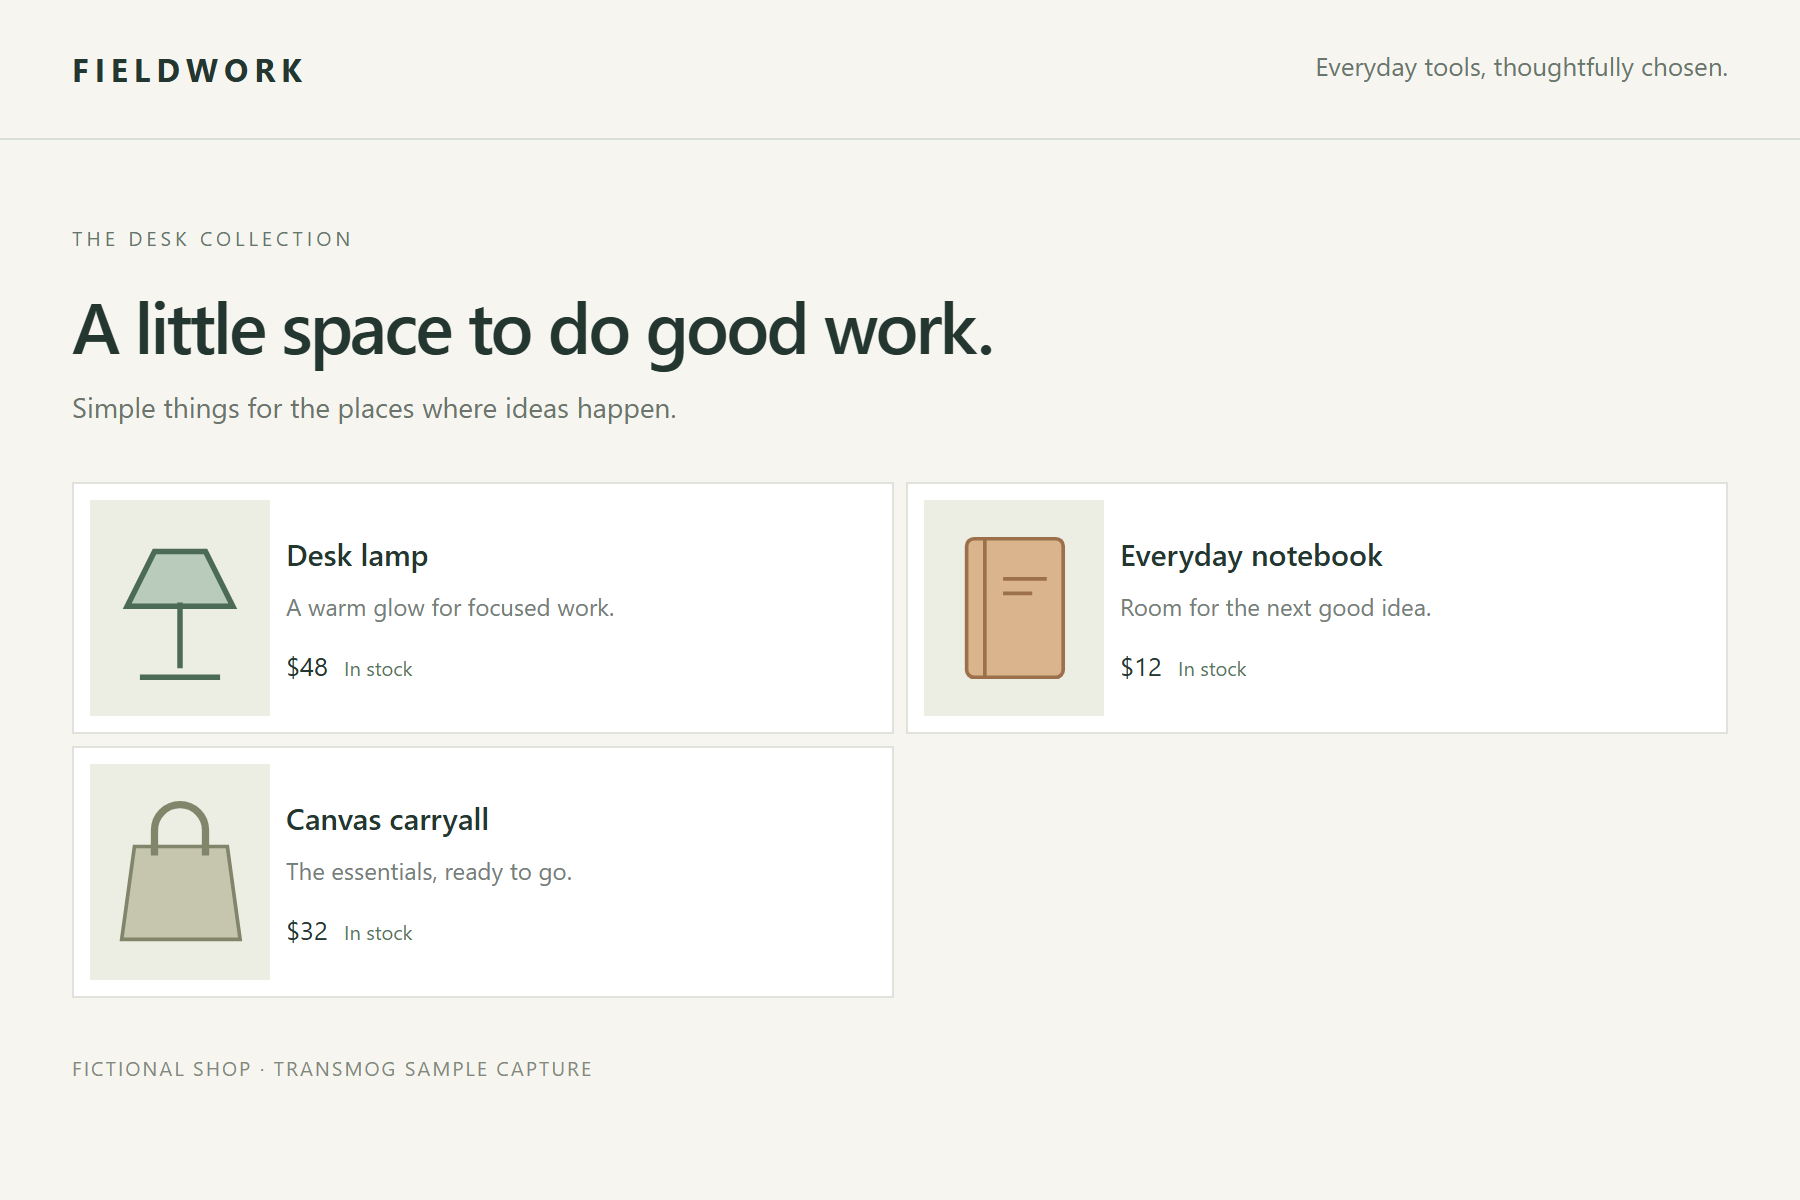
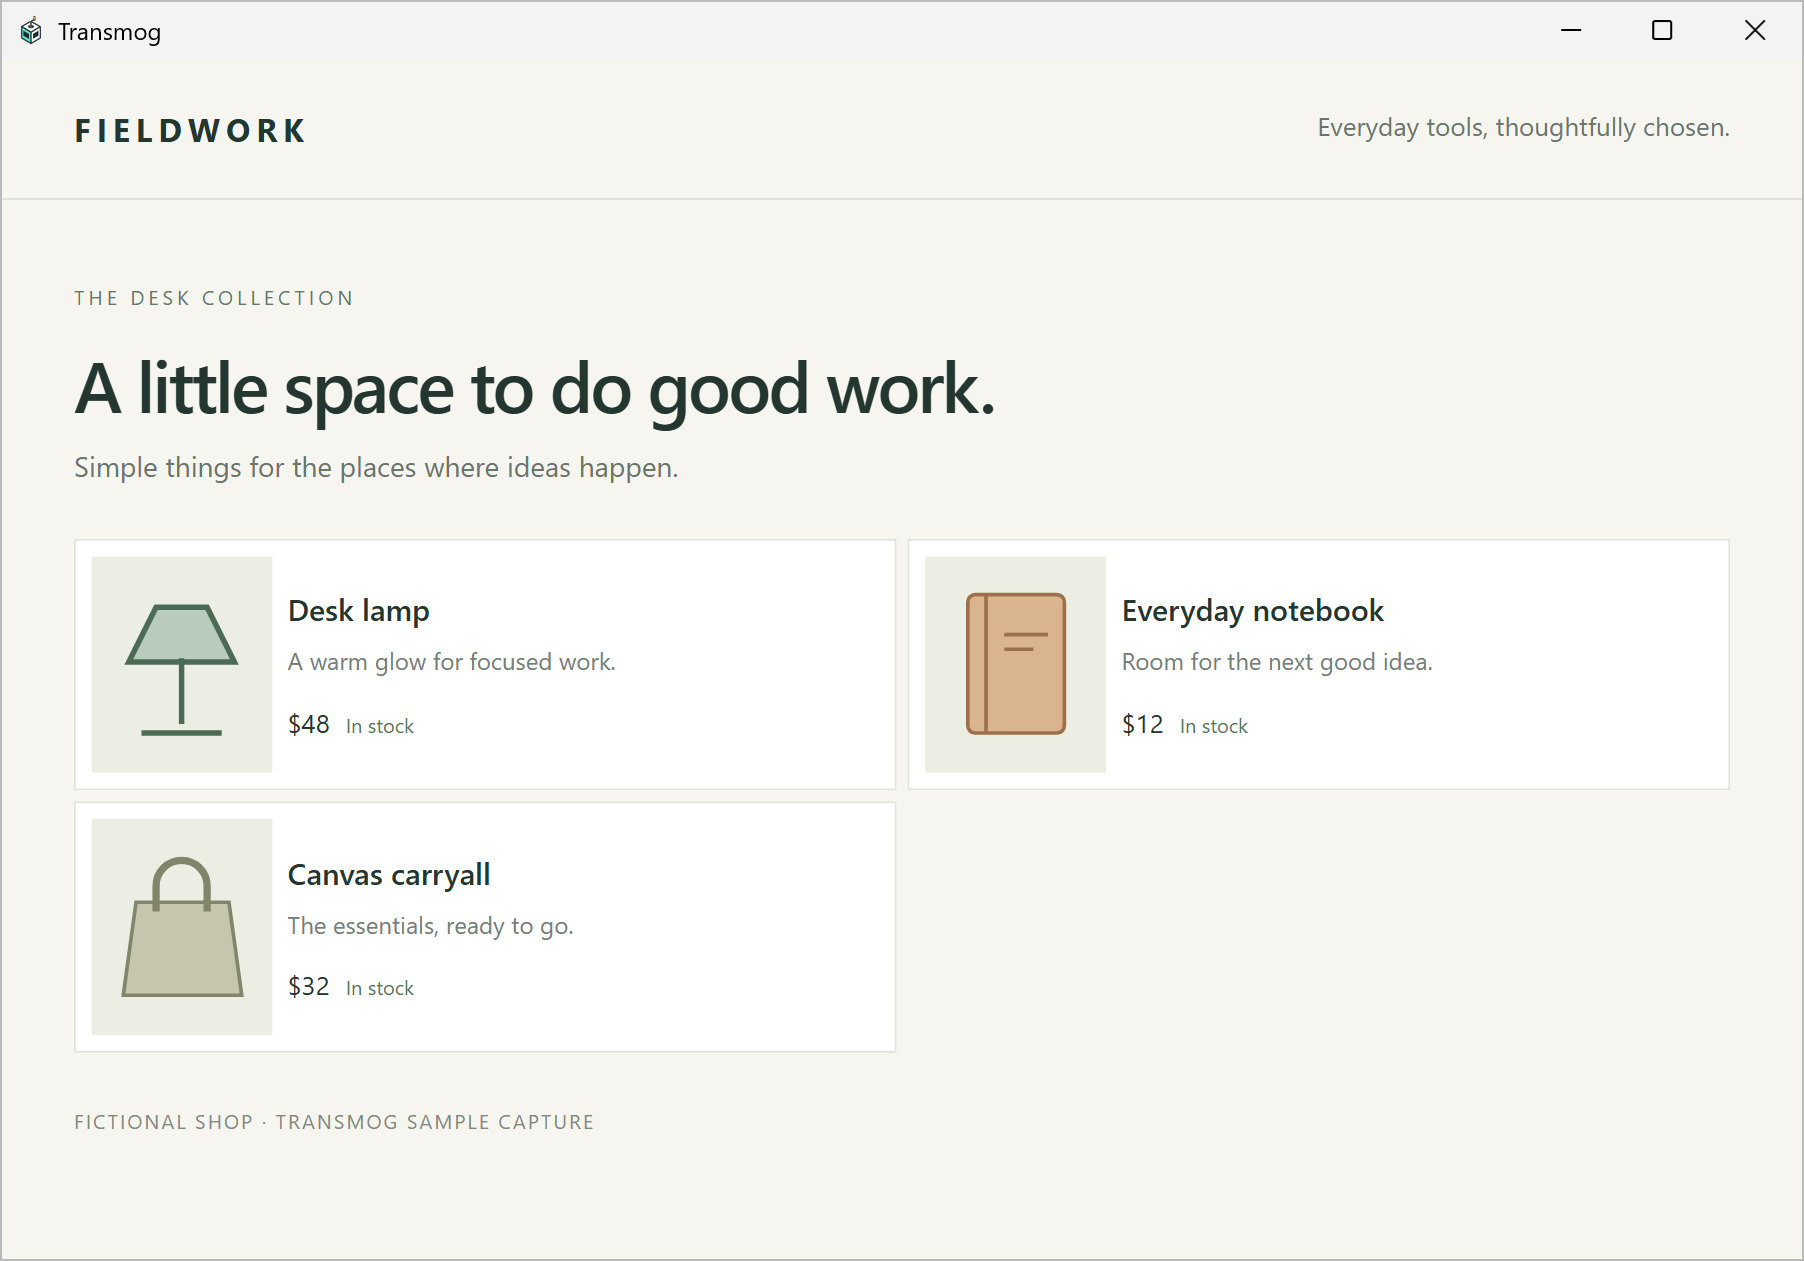
Add Windows frames to generated screenshots

diff --git a/index.html b/index.html
@@ -42,7 +42,7 @@
       <figure class="hero-figure" id="screenshots">
         <div class="figure-bar"><span><span class="mini-mark" aria-hidden="true">↔</span> A closer look at every exchange</span><span class="figure-tag">TRANSMOG / TRAFFIC</span></div>
         <a class="screenshot-link" href="assets/screenshots/traffic.png" data-lightbox="Traffic inspector" aria-label="Enlarge the Traffic inspector screenshot">
-          <img src="assets/screenshots/traffic.png" width="2880" height="1800" fetchpriority="high" alt="Transmog showing captured requests, status codes and durations, with request headers and a JSON response side by side.">
+          <img src="assets/screenshots/traffic.png" width="2884" height="1861" fetchpriority="high" alt="Transmog showing captured requests, status codes and durations, with request headers and a JSON response side by side.">
           <span class="zoom-hint" aria-hidden="true">↗ Expand screenshot</span>
         </a>
         <figcaption><span>Requests, responses, and connection details. Together.</span><span class="sample-note">Actual app UI · Sample traffic</span></figcaption>
@@ -55,11 +55,11 @@
         <div class="story-copy"><p>Modify response headers or content to test how your app behaves. Try saved responses in a captured-page preview, compare the result with the original, and choose when to apply changes to live traffic.</p><p>Keep related changes in a response set, save named versions, and retain a demo—even after clearing Traffic or restarting. Previews use available captured resources and saved responses; missing resources stay blocked.</p></div>
       </div>
       <div class="preview-pair">
-        <figure class="preview-shot"><div class="shot-label"><span>Original response</span><span class="figure-tag">CAPTURED PAGE</span></div><a class="screenshot-link" href="assets/screenshots/preview-original.png" data-lightbox="Original captured-page preview" aria-label="Enlarge the original captured-page preview"><img src="assets/screenshots/preview-original.png" width="1800" height="1200" loading="lazy" alt="Captured sample shop with a cramped two-column product layout."><span class="zoom-hint" aria-hidden="true">↗ Expand screenshot</span></a></figure>
-        <figure class="preview-shot modified"><div class="shot-label"><span>Modified response</span><span class="figure-tag">SAME CAPTURE</span></div><a class="screenshot-link" href="assets/screenshots/preview-css-change.png" data-lightbox="Modified captured-page preview" aria-label="Enlarge the modified captured-page preview"><img src="assets/screenshots/preview-css-change.png" width="1800" height="1200" loading="lazy" alt="The same captured shop with three columns and more spacing after editing its stylesheet response."><span class="zoom-hint" aria-hidden="true">↗ Expand screenshot</span></a></figure>
+        <figure class="preview-shot"><div class="shot-label"><span>Original response</span><span class="figure-tag">CAPTURED PAGE</span></div><a class="screenshot-link" href="assets/screenshots/preview-original.png" data-lightbox="Original captured-page preview" aria-label="Enlarge the original captured-page preview"><img src="assets/screenshots/preview-original.png" width="1804" height="1261" loading="lazy" alt="Captured sample shop with a cramped two-column product layout."><span class="zoom-hint" aria-hidden="true">↗ Expand screenshot</span></a></figure>
+        <figure class="preview-shot modified"><div class="shot-label"><span>Modified response</span><span class="figure-tag">SAME CAPTURE</span></div><a class="screenshot-link" href="assets/screenshots/preview-css-change.png" data-lightbox="Modified captured-page preview" aria-label="Enlarge the modified captured-page preview"><img src="assets/screenshots/preview-css-change.png" width="1804" height="1261" loading="lazy" alt="The same captured shop with three columns and more spacing after editing its stylesheet response."><span class="zoom-hint" aria-hidden="true">↗ Expand screenshot</span></a></figure>
       </div>
       <div class="example-note"><p>One example: the same captured page, with an edited stylesheet response.</p><span class="sample-note">Captured-page preview · Sample page</span></div>
-      <details class="editor-example"><summary>See the response edit</summary><a class="screenshot-link feature-shot" href="assets/screenshots/response-set-css.png" data-lightbox="Response editor" aria-label="Enlarge the response editor screenshot"><img src="assets/screenshots/response-set-css.png" width="2880" height="1800" loading="lazy" alt="Transmog response-set editor with the saved stylesheet change used in the preview."><span class="zoom-hint" aria-hidden="true">↗ Expand screenshot</span></a></details>
+      <details class="editor-example"><summary>See the response edit</summary><a class="screenshot-link feature-shot" href="assets/screenshots/response-set-css.png" data-lightbox="Response editor" aria-label="Enlarge the response editor screenshot"><img src="assets/screenshots/response-set-css.png" width="2884" height="1861" loading="lazy" alt="Transmog response-set editor with the saved stylesheet change used in the preview."><span class="zoom-hint" aria-hidden="true">↗ Expand screenshot</span></a></details>
     </section>
     <section class="story story-rule wrap" aria-labelledby="auth-title">
       <div class="story-intro">
@@ -67,8 +67,8 @@
         <div class="story-copy"><p>Read authentication challenges, token claims, and protocol fields in context. Inspect OAuth and JWT, SAML, NTLM, and exposed Kerberos evidence, with credentials masked by default and links to related captured requests. Token time annotations use the recorded exchange time when available.</p><p>Follow traffic on a timeline, then inspect request and connection timings to explore slow exchanges, overlapping work, and connection setup. Auth inspection decodes captured evidence; it does not verify token signatures.</p></div>
       </div>
       <div class="inspection-pair">
-        <figure class="inspection-shot"><a class="screenshot-link feature-shot" href="assets/screenshots/auth-inspection.png" data-lightbox="Authentication inspection" aria-label="Enlarge the authentication inspection screenshot"><img src="assets/screenshots/auth-inspection.png" width="2880" height="1800" loading="lazy" alt="Transmog Auth view showing sample token claims and capture-time context, with the token masked."><span class="zoom-hint" aria-hidden="true">↗ Expand screenshot</span></a><figcaption>Read the evidence in context.</figcaption></figure>
-        <figure class="inspection-shot"><a class="screenshot-link feature-shot warm" href="assets/screenshots/auth-timing.png" data-lightbox="Request timing detail" aria-label="Enlarge the request timing screenshot"><img src="assets/screenshots/auth-timing.png" width="2880" height="1800" loading="lazy" alt="Timing detail for the same sample exchange showing connection setup, response wait, and receipt."><span class="zoom-hint" aria-hidden="true">↗ Expand screenshot</span></a><figcaption>See where the exchange spent time.</figcaption></figure>
+        <figure class="inspection-shot"><a class="screenshot-link feature-shot" href="assets/screenshots/auth-inspection.png" data-lightbox="Authentication inspection" aria-label="Enlarge the authentication inspection screenshot"><img src="assets/screenshots/auth-inspection.png" width="2884" height="1861" loading="lazy" alt="Transmog Auth view showing sample token claims and capture-time context, with the token masked."><span class="zoom-hint" aria-hidden="true">↗ Expand screenshot</span></a><figcaption>Read the evidence in context.</figcaption></figure>
+        <figure class="inspection-shot"><a class="screenshot-link feature-shot warm" href="assets/screenshots/auth-timing.png" data-lightbox="Request timing detail" aria-label="Enlarge the request timing screenshot"><img src="assets/screenshots/auth-timing.png" width="2884" height="1861" loading="lazy" alt="Timing detail for the same sample exchange showing connection setup, response wait, and receipt."><span class="zoom-hint" aria-hidden="true">↗ Expand screenshot</span></a><figcaption>See where the exchange spent time.</figcaption></figure>
       </div>
       <p class="sample-note section-sample">Actual app UI · Sample traffic</p>
     </section>
@@ -78,8 +78,8 @@
         <div class="story-copy"><p>Explore recorded certificate chains, trust results, and the algorithms each connection negotiated. Distinguish the client-facing connection from the server connection. Inspect TLS versions, ciphers, key exchange, handshake signatures, and session resumption.</p><p>Choose Chromium network profiles, customize certificate trust, and use supported Windows client certificates. Modern TLS includes Encrypted ClientHello and post-quantum cryptography: hybrid X25519/ML-KEM key exchange and ML-DSA handshake signatures on TCP TLS 1.3 connections.</p></div>
       </div>
       <div class="inspection-pair">
-        <figure class="inspection-shot"><a class="screenshot-link feature-shot" href="assets/screenshots/tls-certificates.png" data-lightbox="Certificate inspection" aria-label="Enlarge the certificate inspection screenshot"><img src="assets/screenshots/tls-certificates.png" width="2880" height="1800" loading="lazy" alt="Transmog certificate viewer showing a recorded chain and selected certificate for a sample TLS connection."><span class="zoom-hint" aria-hidden="true">↗ Expand screenshot</span></a><figcaption>Explore the certificate path.</figcaption></figure>
-        <figure class="inspection-shot"><a class="screenshot-link feature-shot warm" href="assets/screenshots/tls-connection.png" data-lightbox="TLS connection details" aria-label="Enlarge the TLS connection screenshot"><img src="assets/screenshots/tls-connection.png" width="2880" height="1800" loading="lazy" alt="Transmog Connection inspector showing negotiated TLS algorithms and recorded verification details."><span class="zoom-hint" aria-hidden="true">↗ Expand screenshot</span></a><figcaption>See what was actually negotiated.</figcaption></figure>
+        <figure class="inspection-shot"><a class="screenshot-link feature-shot" href="assets/screenshots/tls-certificates.png" data-lightbox="Certificate inspection" aria-label="Enlarge the certificate inspection screenshot"><img src="assets/screenshots/tls-certificates.png" width="2884" height="1861" loading="lazy" alt="Transmog certificate viewer showing a recorded chain and selected certificate for a sample TLS connection."><span class="zoom-hint" aria-hidden="true">↗ Expand screenshot</span></a><figcaption>Explore the certificate path.</figcaption></figure>
+        <figure class="inspection-shot"><a class="screenshot-link feature-shot warm" href="assets/screenshots/tls-connection.png" data-lightbox="TLS connection details" aria-label="Enlarge the TLS connection screenshot"><img src="assets/screenshots/tls-connection.png" width="2884" height="1861" loading="lazy" alt="Transmog Connection inspector showing negotiated TLS algorithms and recorded verification details."><span class="zoom-hint" aria-hidden="true">↗ Expand screenshot</span></a><figcaption>See what was actually negotiated.</figcaption></figure>
       </div>
       <div class="example-note"><p>Hybrid exchange and ML-DSA handshakes do not make the entire certificate trust chain post-quantum.</p><span class="sample-note">Actual app UI · Sample traffic</span></div>
     </section>
@@ -88,7 +88,7 @@
         <div><p class="eyebrow">04 / COLLABORATE</p><h2 id="mcp-title">Debug with your agent.</h2></div>
         <div class="story-copy"><p>Connect an MCP-compatible agent to inspect traffic, send requests, and prepare rules alongside you. Choose what it can access and change, and review its drafts in Transmog. Authentication-header values and message bodies are hidden by default.</p><a class="source-link agent-setup" href="https://github.com/erik-anderson/transmog/blob/main/docs/mcp.md">Connect an agent <span aria-hidden="true">↗</span></a></div>
       </div>
-      <figure class="inspection-shot"><a class="screenshot-link feature-shot" href="assets/screenshots/mcp-rule-draft.png" data-lightbox="MCP rule collaboration" aria-label="Enlarge the MCP rule collaboration screenshot"><img src="assets/screenshots/mcp-rule-draft.png" width="2880" height="1800" loading="lazy" alt="Transmog showing an agent-prepared, disabled response-header rule for a fictional catalog API, with its match and Cache-Control change ready for review."><span class="zoom-hint" aria-hidden="true">↗ Expand screenshot</span></a><figcaption>Turn a debugging conversation into a rule you can review.</figcaption></figure>
+      <figure class="inspection-shot"><a class="screenshot-link feature-shot" href="assets/screenshots/mcp-rule-draft.png" data-lightbox="MCP rule collaboration" aria-label="Enlarge the MCP rule collaboration screenshot"><img src="assets/screenshots/mcp-rule-draft.png" width="2884" height="1861" loading="lazy" alt="Transmog showing an agent-prepared, disabled response-header rule for a fictional catalog API, with its match and Cache-Control change ready for review."><span class="zoom-hint" aria-hidden="true">↗ Expand screenshot</span></a><figcaption>Turn a debugging conversation into a rule you can review.</figcaption></figure>
       <p class="sample-note section-sample">Actual app UI · Sample rule</p>
     </section>
     <section class="capabilities wrap" aria-labelledby="tools-title">
@@ -111,7 +111,7 @@
   <footer class="site-footer wrap"><a class="wordmark" href="./"><img src="assets/logo.svg" width="36" height="36" alt=""><span>Transmog.</span></a><p>A little more clarity. A lot less guessing.</p><a href="https://github.com/erik-anderson/transmog/issues">Feedback &amp; issues <span aria-hidden="true">↗</span></a></footer>
   <dialog class="lightbox" aria-labelledby="lightbox-title">
     <div class="lightbox-toolbar"><h2 id="lightbox-title">Screenshot</h2><a class="original-link" href="assets/screenshots/traffic.png" target="_blank" rel="noopener">Open full size <span aria-hidden="true">↗</span></a><button class="close-lightbox" type="button" aria-label="Close screenshot">Close <span aria-hidden="true">×</span></button></div>
-    <div class="lightbox-image"><img width="2880" height="1800" alt=""></div>
+    <div class="lightbox-image"><img width="2884" height="1861" alt=""></div>
   </dialog>
 </body>
 </html>

diff --git a/README.md b/README.md
@@ -24,7 +24,7 @@ Pushes to `main` run the checks and publish `dist/`. Pull requests run the same 
 
 The nine screenshots come from the **released Windows app**, including its native captured-page previews. The current source is v0.1.15 Canary; `screenshot-source.json` pins its source commit and hashes for the app, CLI, and both worker executables. The release installer and CLI were checked against the release's published `SHA256SUMS` before extraction.
 
-The generator imports fictional `.test` traffic into an isolated temporary profile. It uses production commands and controls, without changing app templates or screenshot pixels. It never starts a proxy, installs certificates, or uses a personal capture. Timing and TLS metadata are synthetic examples, not performance measurements. Certificate screenshots use the app's public test certificates; the illustrated TLS connection uses classical X25519. PQC capability statements are grounded in the released implementation, not inferred from that screenshot.
+The generator imports fictional `.test` traffic into an isolated temporary profile. It uses production commands and controls, preserving captured app pixels and adding the supplied Windows title bar and border around them. It never starts a proxy, installs certificates, or uses a personal capture. Timing and TLS metadata are synthetic examples, not performance measurements. Certificate screenshots use the app's public test certificates; the illustrated TLS connection uses classical X25519. PQC capability statements are grounded in the released implementation, not inferred from that screenshot.
 
 1. Use a clean checkout of the application at the commit in `screenshot-source.json`. Keep it separate from ongoing app edits.
 2. Use Windows with WebView2, Python 3.11+, Node 24+, and the native tools required by the app's `scripts/dev-env.py --check`. Extract the pinned release installer into a separate directory, retaining `transmog.exe`, `transmog-cli.exe`, `transmog-preview-worker.exe`, and `transmog-script-host.exe` together. The screenshot generator does not build or install the application.
@@ -38,9 +38,11 @@ The generator imports fictional `.test` traffic into an isolated temporary profi
 
    `--python` is optional when `TRANSMOG_PYTHON` or a working `python` is available. The script checks the app environment, copies the release executables into an owned temporary directory, imports the fixture, and captures Traffic, Auth, timing, response editing, previews, certificates, connection details, and MCP rule collaboration. It waits for visible JSON syntax colors, verifies that the modified preview differs and that a saved demo reopens after clearing Traffic, and uses the real MCP connector to prepare a disabled, agent-attributed header rule. The disposable access key stays scoped to the fictional API with default redaction and is revoked after capture. No desktop source files are modified.
 
-The app viewport is 1440 × 900 and the preview viewport is 900 × 600, both at 2× scale. The generator applies the viewports, scale, sample capture time, locale, theme, and timezone from `screenshot-source.json`. `screenshot-manifest.json` records the app commit, executable, fixture and generator hashes, WebView2 version, OS, Node version, dimensions, and image hashes. The generator uses helpers from the pinned app checkout, stages images until all capture assertions pass, and records cleanup evidence under ignored `.cache/`.
+The app viewport is 1440 × 900 and the preview viewport is 900 × 600, both at 2× scale. Each capture receives a 1 logical pixel (2 physical pixels) `#BABABA` outer border. Inside it, the supplied left and right Windows title bar PNGs from `scripts/screenshot-assets/` sit above the capture at their native 2× size, with `#F3F3F3` filling the space between them. The title bar is 57 physical pixels tall, making the final app images 2884 × 1861 and previews 1804 × 1261. These source assets stay outside the published image directory.
 
-Add `--verify` to render into ignored `.cache/screenshot-verify/` without replacing the site images. This repeats the behavioral assertions and checks the image inventory; review the regenerated images visually because native browser and font updates can change pixels. `npm run check` verifies the exact published image hashes and generator provenance without launching the desktop app.
+The generator applies the viewports, scale, window frame, sample capture time, locale, theme, and timezone from `screenshot-source.json`. `screenshot-manifest.json` records the app commit, executable, fixture, generator, frame renderer and title bar asset hashes, WebView2 version, OS, Node version, dimensions, and image hashes. Content pixel hashes verify that framing preserves the captured app content. The generator uses helpers from the pinned app checkout, stages images until all capture assertions pass, and records cleanup evidence under ignored `.cache/`.
+
+Add `--verify` to render into ignored `.cache/screenshot-verify/` without replacing the site images. This repeats the behavioral assertions and checks the image inventory; review the regenerated images visually because native browser and font updates can change pixels. `npm run check` verifies the exact published image hashes, frame colors and placement, unchanged content pixels, and generator provenance without launching the desktop app.
 
 ### Refresh after an app update
 
